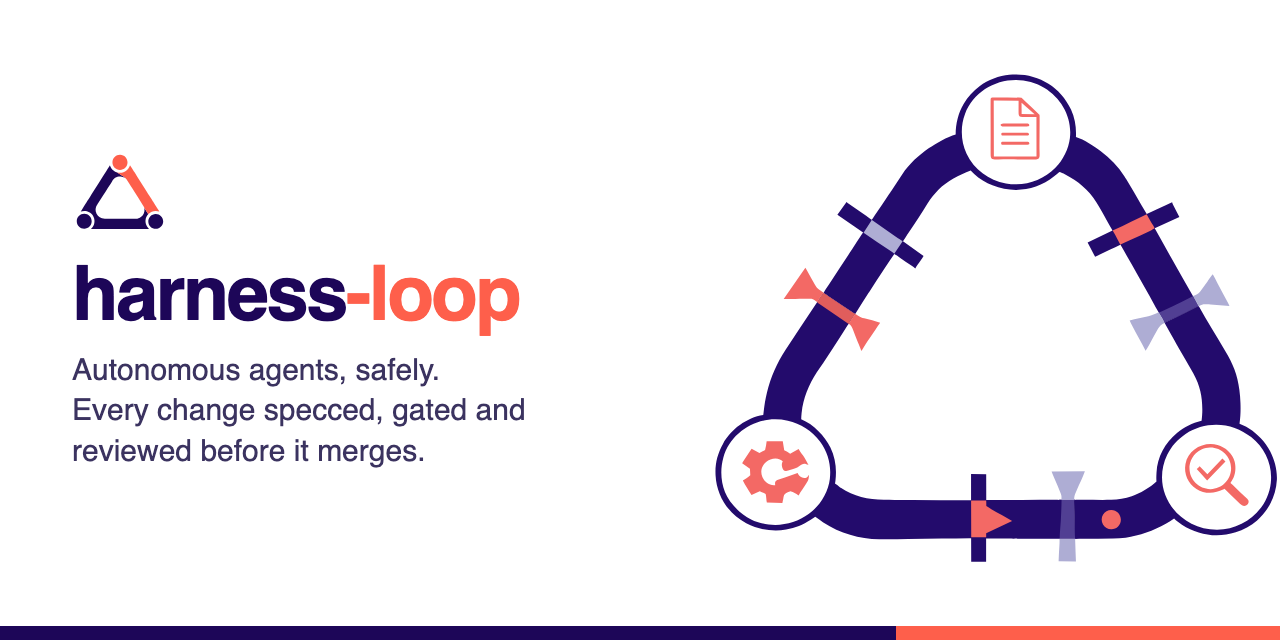
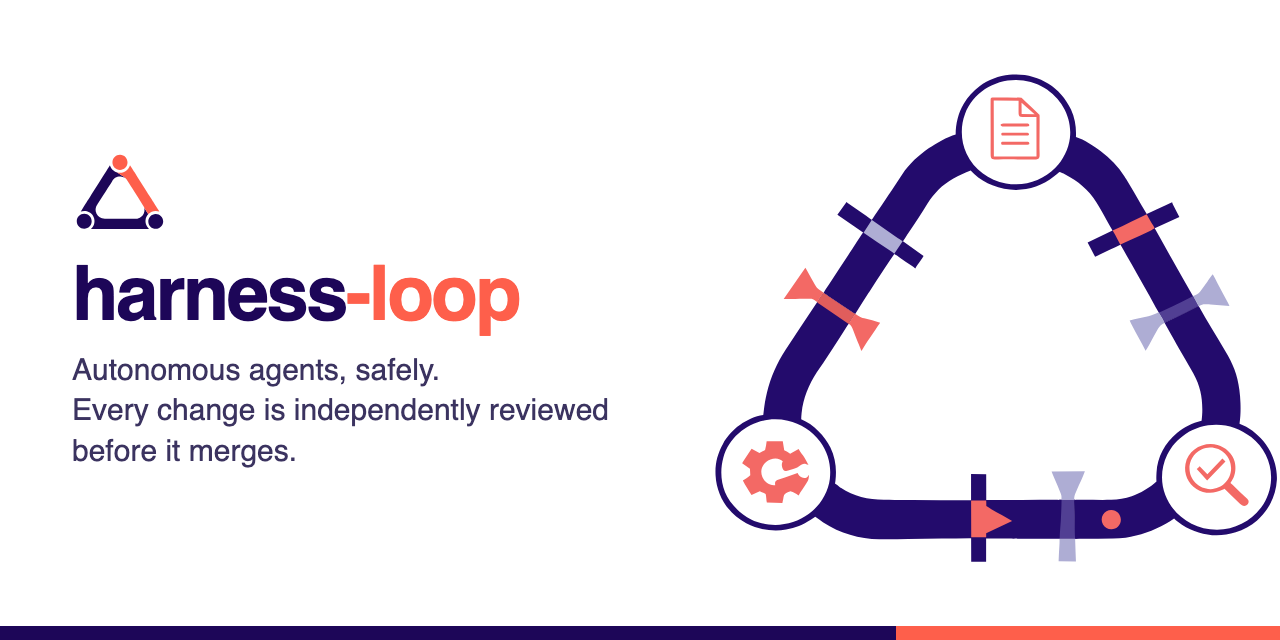
🐛 fix(E99-F183): repoint URL defaults to araozmd/harness-loop
The repo was renamed harness-sdd -> harness-loop. Repoint the update-check default
remote, the feedback reporter default repo, the feedback.repo seed, the update.remote
comment, the /sdd-triage example slug and the docs examples. migrate_config rewrites an
existing install's feedback.repo only when byte-identical to the old shipped default
(one info line); custom and already-new values are untouched. Historical PR citations
stay. Also commits the new social-preview tagline. VERSION 0.110.1.

Changed region(s): [[0.0625, 0.6875, 0.3438, 0.75], [0.1875, 0.625, 0.5, 0.6562]]

diff --git a/assets/src/social-preview.html b/assets/src/social-preview.html
@@ -9,5 +9,5 @@ p{margin:0;font-size:30px;line-height:1.35;color:#3b3360}
 </style></head><body>
 <img class="hero" src="../hero.svg">
 <div class="txt"><img src="../logo.svg" width="96"><h1>harness<span>-loop</span></h1>
-<p>Autonomous agents, safely.<br>Every change specced, gated and reviewed before it merges.</p></div>
+<p>Autonomous agents, safely.<br>Every change is independently reviewed before it merges.</p></div>
 <div class="bar"></div></body></html>

diff --git a/progress/inbox/E99-F183.md b/progress/inbox/E99-F183.md
@@ -1,0 +1,75 @@
+---
+feature: E99-F183
+seeded_by: fixer
+date: 2026-11-13
+---
+# Fix — Repoint harness-sdd URL defaults to araozmd/harness-loop
+
+## Problem / who
+The GitHub repo was renamed from araozmd/harness-sdd to araozmd/harness-loop on 2026-11-12.
+GitHub redirects the old URL, so nothing is broken today. Two shipped defaults still name
+the old repo, though, and work only as long as the redirect holds. The redirect breaks
+permanently if anyone ever creates a repo at the old name.
+- The E38 update check's default remote: `tools/harness-update.sh:62`, plus the
+  `update.remote` comment in `harness.config.yaml:370` and its byte-identical installer
+  heredoc at `harness-install.sh:524`.
+- The feedback reporter's default repo: `tools/harness-report.sh:91`
+  `DEFAULT_REPO`, plus the `feedback.repo` seed in `harness.config.yaml:446` and
+  `harness-install.sh:652`.
+Prose that tells agents how to parse a repo slug also uses the old name as its example:
+`agents/orchestrator.md:94` and the generated triage glue.
+
+## Intended fix
+- Change the two defaults, the seed lines and their comments to `araozmd/harness-loop`.
+- **Existing installs:** `feedback.repo` is seeded once into each consumer's
+  `harness.config.yaml` and is project-owned. Have `migrate_config` rewrite the value
+  ONLY when it is byte-identical to the old shipped default
+  `github.com/araozmd/harness-sdd`, and leave any customized value alone. Apply the same
+  rule to an `update.remote` that equals the old default URL, if the update block seeds
+  one. Report each rewrite in one info line.
+- `agents/orchestrator.md:94` example slug: replace it, then regenerate the glue with
+  `sh harness-install.sh --self`. Never hand-edit `.claude/`, `.opencode/` or `.agents/`.
+- `docs/INSTALL.md:560` and `docs/agents/README.md:425`: replace the example value. That
+  text moved verbatim in E39-F01; a value-only update is fine here.
+- Tests: update `tests/test_feedback_config.sh` and `tests/test_feedback_report.sh` to
+  the new default, and update the update-check default if a test pins it. Add pins for the
+  migration rule:
+  - the old default gets rewritten;
+  - a custom value is untouched;
+  - an already-new value is untouched.
+  Each pin must fail without the fix.
+- Leave historical references (`araozmd/harness-sdd#141`, `#96` and similar PR citations
+  in comments and prose) unchanged. They are history, and GitHub redirects them.
+- Already done by the Orchestrator, commit as-is: `assets/social-preview.png` and
+  `assets/src/social-preview.html` with the new tagline.
+- Bump VERSION as PATCH, 0.110.0 → 0.110.1 (🐛), with a CHANGELOG entry.
+
+## How to verify
+- `git grep -n "araozmd/harness-sdd"` leaves only historical PR or issue citations, in
+  comments, prose, CHANGELOG, specs, progress and fixtures.
+- Touched suites green: test_feedback_config, test_feedback_report, test_update_check,
+  test_install, test_self_drift and test_docs_for_humans. `./init.sh` green.
+
+## Files expected to change
+- tools/harness-update.sh
+- tools/harness-report.sh
+- harness.config.yaml
+- harness-install.sh
+- agents/orchestrator.md
+- .claude/commands/sdd-triage.md
+- .opencode/command/sdd-triage.md
+- .agents/skills/sdd-triage/SKILL.md
+- docs/INSTALL.md
+- docs/agents/README.md
+- tests/test_feedback_config.sh
+- tests/test_feedback_report.sh
+- tests/test_update_check.sh
+- assets/social-preview.png
+- assets/src/social-preview.html
+- VERSION
+- CHANGELOG.md
+
+## Constraints
+- Stage: production
+- Never rename installed paths (`.harness/`, `harness-install.sh`, `harness.config.yaml`).
+- One test run at a time, with --jobs 4.

diff --git a/CHANGELOG.md b/CHANGELOG.md
@@ -4,6 +4,20 @@ All notable changes to the harness body are recorded here. Versions follow
 [SemVer](https://semver.org/) and are stamped into every install's
 `.harness/.harness-version` (see `AGENTS.md` → Branch, review, and release lifecycle).
 
+## [0.110.1] — 2026-11-13
+
+### Fixed — repoint the shipped URL defaults to `araozmd/harness-loop` (E99-F183)
+- The GitHub repo was renamed `araozmd/harness-sdd` → `araozmd/harness-loop`. Two defaults still
+  named the old repo and worked only while GitHub's redirect held: the update check's default
+  remote (`tools/harness-update.sh`) and the feedback reporter's default repo
+  (`tools/harness-report.sh`), plus the `feedback.repo` seed, the `update.remote` comment, the
+  `/sdd-triage` example slug and the docs examples.
+- Upgrade migration: `migrate_config` rewrites an existing install's `feedback.repo` ONLY when it
+  is byte-identical to the old shipped default `github.com/araozmd/harness-sdd`, with one info
+  line; a customized value (a fork, a GHE host) and an already-new value are never touched.
+  `update.remote` seeds empty, so there is nothing to migrate there.
+- Historical PR citations (`araozmd/harness-sdd#141`, `#96`, …) are unchanged.
+
 ## [0.110.0] — 2026-11-12
 
 ### Added — docs for humans, slice 1 (E39-F01)

diff --git a/docs/INSTALL.md b/docs/INSTALL.md
@@ -557,7 +557,7 @@ block yet, both seed:
 ```yaml
 feedback:
   enabled: true
-  repo: github.com/araozmd/harness-sdd
+  repo: github.com/araozmd/harness-loop
   max_per_session: 3
 ```
 
@@ -917,7 +917,7 @@ remote is contacted at most once a day. That directory is already ignored by ver
 |---|---|
 | Turn the check off for good | `update.check: false` in `harness.config.yaml` |
 | Turn it off for one run | `HARNESS_SKIP_UPDATE_CHECK=1 ./init.sh` (silent, on purpose: a forgotten opt-out costs a notice, not safety) |
-| Check a fork | `update.remote: <git URL>` in `harness.config.yaml`, or `HARNESS_UPDATE_REMOTE=<git URL>` for one run. Empty means `https://github.com/araozmd/harness-sdd.git` |
+| Check a fork | `update.remote: <git URL>` in `harness.config.yaml`, or `HARNESS_UPDATE_REMOTE=<git URL>` for one run. Empty means `https://github.com/araozmd/harness-loop.git` |
 | Never checked | the harness source repo itself (no `.harness-version`), an umbrella child (the coordinator's upgrade cascades), a machine without `git` |
 
 **Answering `y`** fetches that tag into `.harness/progress/update-check/repo/` and shows a

diff --git a/.agents/skills/sdd-triage/SKILL.md b/.agents/skills/sdd-triage/SKILL.md
@@ -18,7 +18,7 @@ Read agents/orchestrator.md, including Source-only feedback triage.
 Run ./init.sh first and halt on any non-zero exit. This workflow exists only in
 this harness source checkout; refuse an installed target without the source helper.
 Read harness.config.yaml and resolve feedback.repo: missing/empty uses
-github.com/araozmd/harness-sdd; OWNER/REPO adds github.com; HOST/OWNER/REPO is explicit.
+github.com/araozmd/harness-loop; OWNER/REPO adds github.com; HOST/OWNER/REPO is explicit.
 Match F01: strip trailing comments/whitespace, do not unquote, require two or three
 nonempty [A-Za-z0-9._-]+ components. Malformed configuration stops without reads.
 Never infer this repository from the current remote.

diff --git a/.claude/commands/sdd-triage.md b/.claude/commands/sdd-triage.md
@@ -11,7 +11,7 @@ Read agents/orchestrator.md, including Source-only feedback triage.
 Run ./init.sh first and halt on any non-zero exit. This workflow exists only in
 this harness source checkout; refuse an installed target without the source helper.
 Read harness.config.yaml and resolve feedback.repo: missing/empty uses
-github.com/araozmd/harness-sdd; OWNER/REPO adds github.com; HOST/OWNER/REPO is explicit.
+github.com/araozmd/harness-loop; OWNER/REPO adds github.com; HOST/OWNER/REPO is explicit.
 Match F01: strip trailing comments/whitespace, do not unquote, require two or three
 nonempty [A-Za-z0-9._-]+ components. Malformed configuration stops without reads.
 Never infer this repository from the current remote.

diff --git a/.opencode/command/sdd-triage.md b/.opencode/command/sdd-triage.md
@@ -11,7 +11,7 @@ Read agents/orchestrator.md, including Source-only feedback triage.
 Run ./init.sh first and halt on any non-zero exit. This workflow exists only in
 this harness source checkout; refuse an installed target without the source helper.
 Read harness.config.yaml and resolve feedback.repo: missing/empty uses
-github.com/araozmd/harness-sdd; OWNER/REPO adds github.com; HOST/OWNER/REPO is explicit.
+github.com/araozmd/harness-loop; OWNER/REPO adds github.com; HOST/OWNER/REPO is explicit.
 Match F01: strip trailing comments/whitespace, do not unquote, require two or three
 nonempty [A-Za-z0-9._-]+ components. Malformed configuration stops without reads.
 Never infer this repository from the current remote.

diff --git a/agents/orchestrator.md b/agents/orchestrator.md
@@ -91,7 +91,7 @@ propose first; existing intake owns all board writes.
 Run ./init.sh first and halt on any non-zero exit. This workflow exists only in
 this harness source checkout; refuse an installed target without the source helper.
 Read harness.config.yaml and resolve feedback.repo: missing/empty uses
-github.com/araozmd/harness-sdd; OWNER/REPO adds github.com; HOST/OWNER/REPO is explicit.
+github.com/araozmd/harness-loop; OWNER/REPO adds github.com; HOST/OWNER/REPO is explicit.
 Match F01: strip trailing comments/whitespace, do not unquote, require two or three
 nonempty [A-Za-z0-9._-]+ components. Malformed configuration stops without reads.
 Never infer this repository from the current remote.

diff --git a/docs/agents/README.md b/docs/agents/README.md
@@ -422,7 +422,7 @@ URLs, foreign paths, controls and marker syntax; they cannot establish confident
 or factual truth for arbitrary prose. Missing or unsafe details stay local with field
 diagnostics and can be completed later using the same token. Detailed findings use a
 canonical digest for exact duplicate identity. Configuration lives under `feedback:` in `harness.config.yaml`
-(`enabled: true`, `max_per_session: 3`, `repo: github.com/araozmd/harness-sdd`).
+(`enabled: true`, `max_per_session: 3`, `repo: github.com/araozmd/harness-loop`).
 
 ### Source-only feedback triage
 
